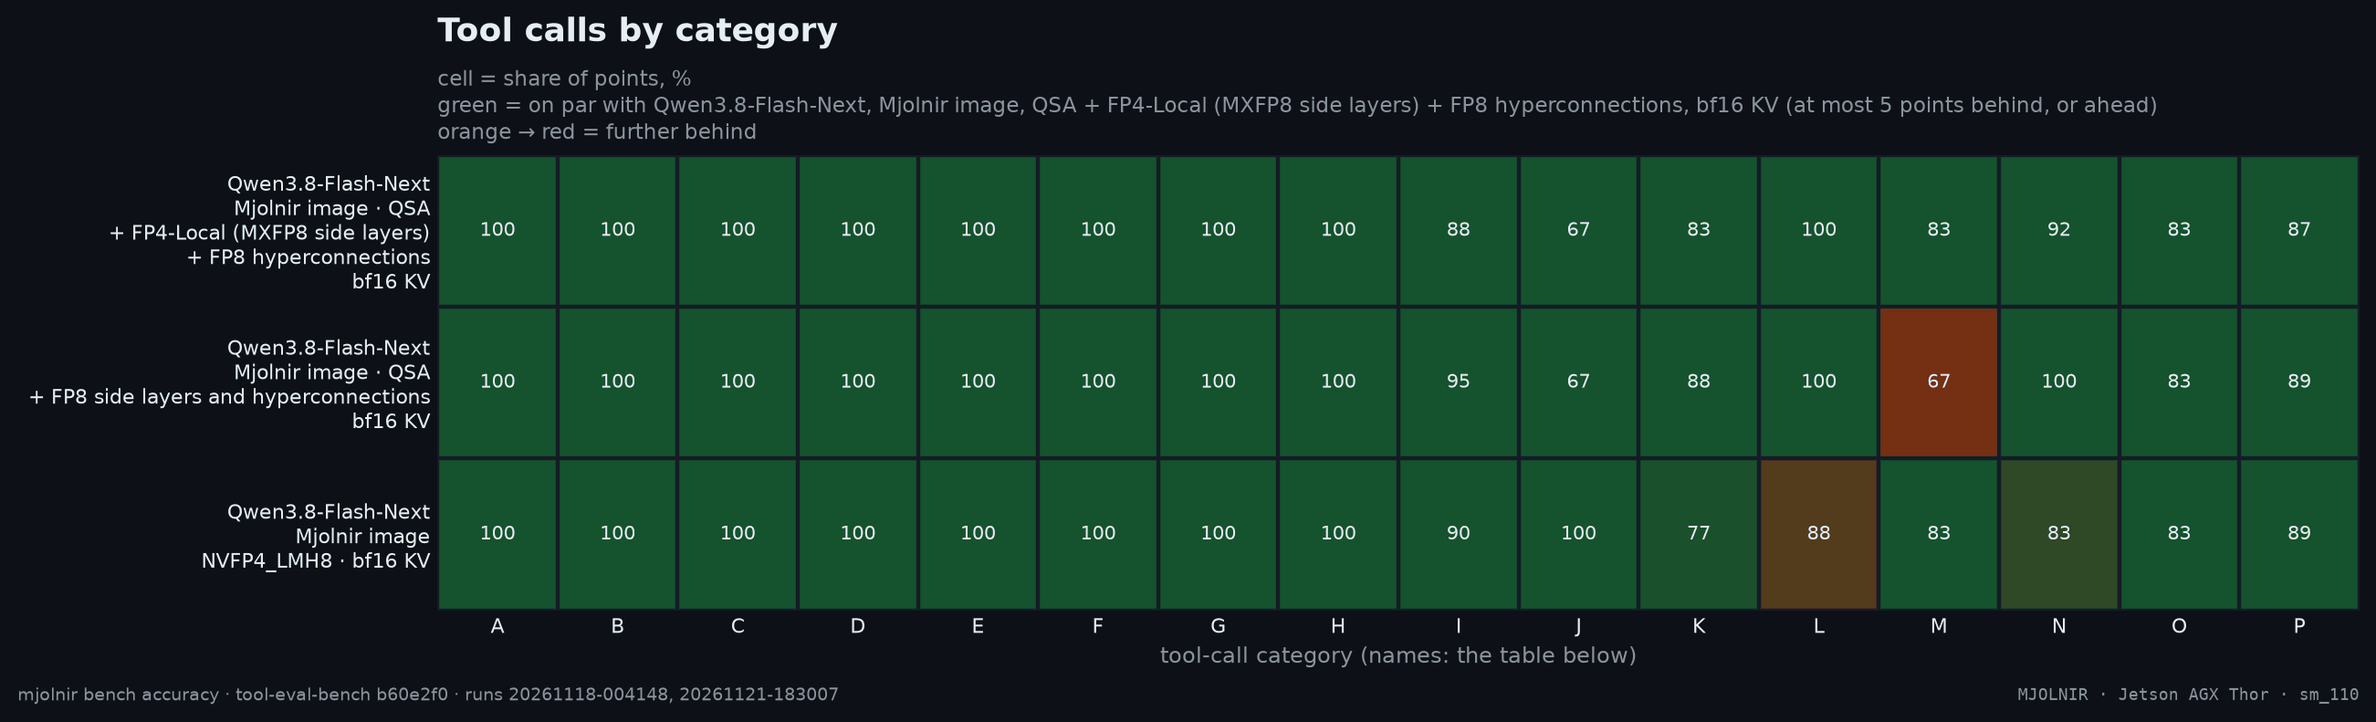
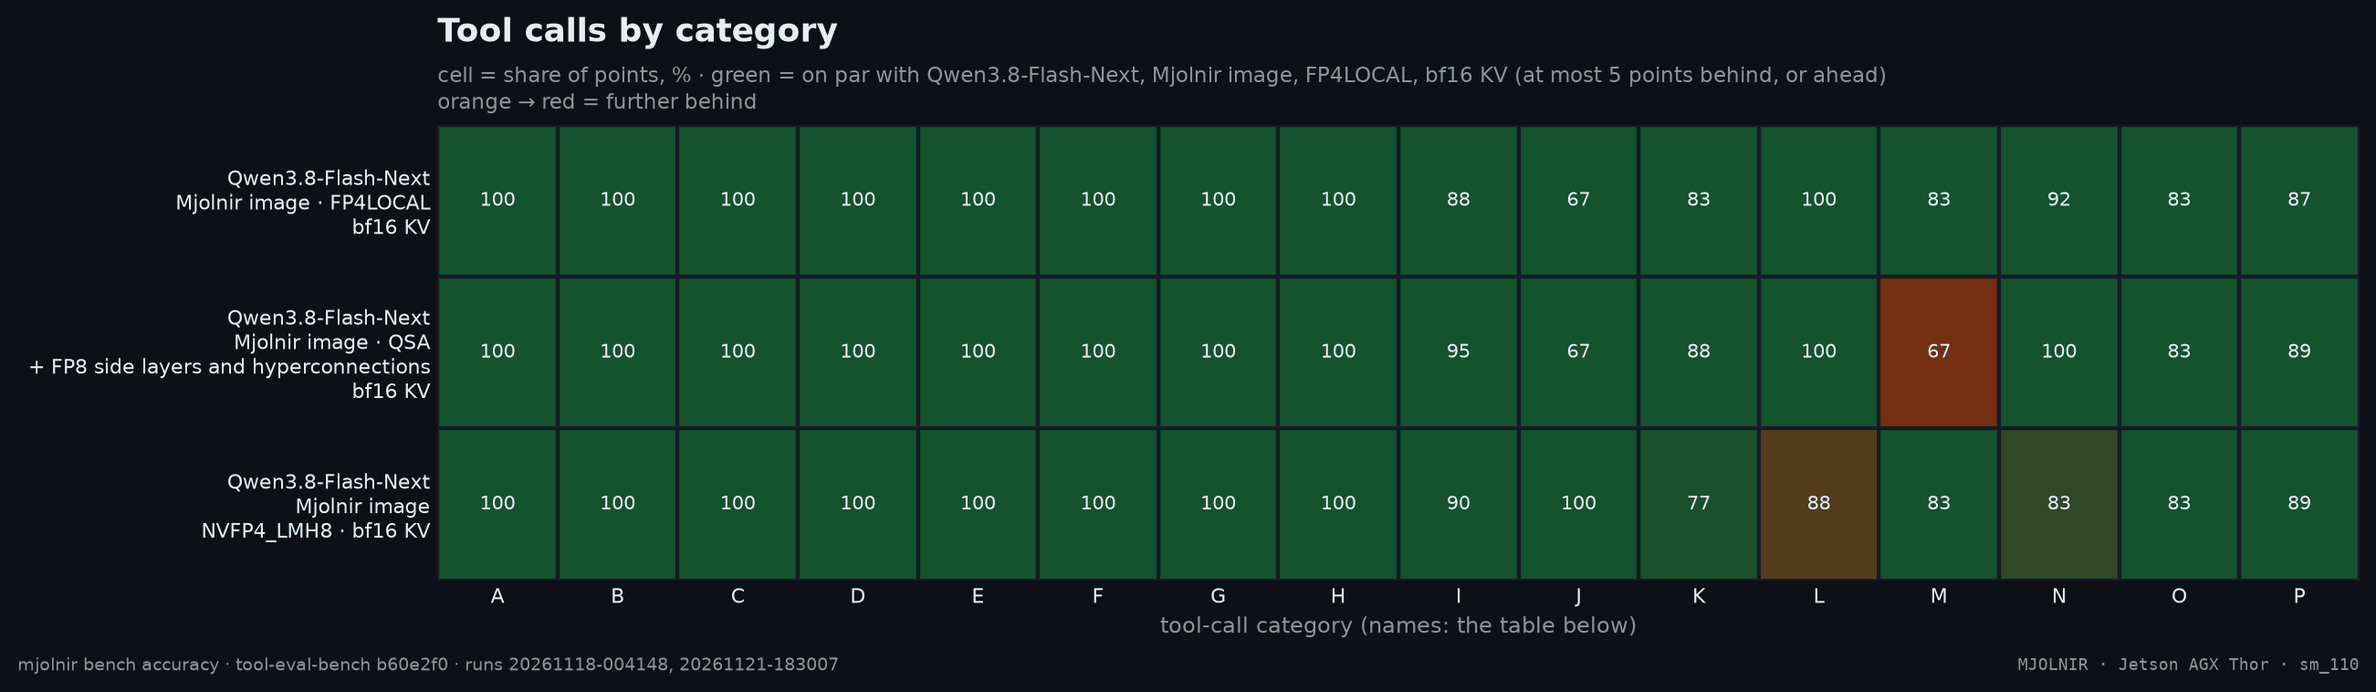
render: the post-cut single-arm era - the champion reads fp8 KV

diff --git a/docs/platforms/thor/kernel/accuracy.md b/docs/platforms/thor/kernel/accuracy.md
@@ -29,8 +29,8 @@ Sampling is greedy (temperature 0) with a fixed seed, so two configs see the sam
 - **Qwen3.6-35B-A3B · Mjolnir · fp6 e2m3 KV + fp8 lm_head + 64K draft vocab** vs Qwen3.6-35B-A3B · official vLLM · FlashInfer + DFlash · fp8 KV: Tool calls +0.7, Hard Mode -3.6 points (4 scenarios scored lower, 3 higher of 97).
 - **Qwen3.6-35B-A3B · Mjolnir · fp8 KV** vs Qwen3.6-35B-A3B · official vLLM · FlashInfer + DFlash · fp8 KV: Tool calls -1.1‡, Hard Mode -2.7 points (6 scenarios scored lower, 4 higher of 97; excluded TC-45 counted as zero).
 - **Qwen3.6-35B-A3B · Mjolnir · fp8 KV + W4A4 experts** vs Qwen3.6-35B-A3B · official vLLM · FlashInfer + DFlash · fp8 KV: Tool calls +0.4, Hard Mode +1.8 points (4 scenarios scored lower, 4 higher of 97).
-- **Qwen3.8-Flash-Next · Mjolnir image · QSA + FP8 side layers and hyperconnections · bf16 KV** vs Qwen3.8-Flash-Next · Mjolnir image · QSA + FP4-Local (MXFP8 side layers) + FP8 hyperconnections · bf16 KV: Tool calls +1.8, Hard Mode +2.7 points (4 scenarios scored lower, 10 higher of 97).
-- **Qwen3.8-Flash-Next · Mjolnir image · NVFP4_LMH8 · bf16 KV** vs Qwen3.8-Flash-Next · Mjolnir image · QSA + FP4-Local (MXFP8 side layers) + FP8 hyperconnections · bf16 KV: Tool calls -0.4, Hard Mode +2.7 points (6 scenarios scored lower, 9 higher of 97).
+- **Qwen3.8-Flash-Next · Mjolnir image · QSA + FP8 side layers and hyperconnections · bf16 KV** vs Qwen3.8-Flash-Next · Mjolnir image · FP4LOCAL · bf16 KV: Tool calls +1.8, Hard Mode +2.7 points (4 scenarios scored lower, 10 higher of 97).
+- **Qwen3.8-Flash-Next · Mjolnir image · NVFP4_LMH8 · bf16 KV** vs Qwen3.8-Flash-Next · Mjolnir image · FP4LOCAL · bf16 KV: Tool calls -0.4, Hard Mode +2.7 points (6 scenarios scored lower, 9 higher of 97).
 
 | config | KV | Tool calls % | Hard Mode % | completion |
 |---|---|--:|--:|--:|
@@ -43,7 +43,7 @@ Sampling is greedy (temperature 0) with a fixed seed, so two configs see the sam
 | Qwen3.6-35B-A3B · Mjolnir · fp6 e2m3 KV + fp8 lm_head + 64K draft vocab | fp6 e2m3 | 91.3 (+0.7) | 73.2 (-3.6) | 100% |
 | Qwen3.6-35B-A3B · Mjolnir · fp8 KV | fp8 | 90.2 <sub>n=2</sub> (-1.1‡) | 74.1 <sub>n=2</sub> (-2.7) | 99% |
 | Qwen3.6-35B-A3B · Mjolnir · fp8 KV + W4A4 experts | fp8 | 90.9 <sub>n=2</sub> (+0.4) | 78.6 <sub>n=2</sub> (+1.8) | 100% |
-| **Qwen3.8-Flash-Next · Mjolnir image · QSA + FP4-Local (MXFP8 side layers) + FP8 hyperconnections · bf16 KV** | bf16 | 90.9 <sub>n=2</sub> | 86.6 <sub>n=2</sub> | 100% |
+| **Qwen3.8-Flash-Next · Mjolnir image · FP4LOCAL · bf16 KV** | bf16 | 90.9 <sub>n=2</sub> | 86.6 <sub>n=2</sub> | 100% |
 | Qwen3.8-Flash-Next · Mjolnir image · QSA + FP8 side layers and hyperconnections · bf16 KV | bf16 | 92.8 (+1.8) | 89.3 (+2.7) | 100% |
 | Qwen3.8-Flash-Next · Mjolnir image · NVFP4_LMH8 · bf16 KV | bf16 | 90.6 (-0.4) | 89.3 (+2.7) | 100% |
 
@@ -56,13 +56,13 @@ Sampling is greedy (temperature 0) with a fixed seed, so two configs see the sam
 
 </details><br />
 
-<sub>Score in %, (±) = points vs the bold row of the same model (**Qwen3.8-27B · official vLLM · FlashInfer · fp8 KV / Qwen3.6-35B-A3B · official vLLM · FlashInfer + DFlash · fp8 KV / Qwen3.8-Flash-Next · Mjolnir image · QSA + FP4-Local (MXFP8 side layers) + FP8 hyperconnections · bf16 KV**), never across models; ‡ = tool-eval-bench excluded a scenario on one of the two legs; the delta scores both on the full max, the excluded points counting as zero; n = averaged runs (`--trials`). Each row takes every suite from the newest run that measured it. tool-eval-bench arguments: Tool calls: `run --hardmode --seed 42 --timeout 600`; Hard Mode: `run --hardmode --seed 42 --timeout 600`. Rendered from [`benchmarks/raw/accuracy/20261013-112727/accuracy.json`](../../../../benchmarks/raw/accuracy/20261013-112727/accuracy.json), [`benchmarks/raw/accuracy/20261017-131320/accuracy.json`](../../../../benchmarks/raw/accuracy/20261017-131320/accuracy.json), [`benchmarks/raw/accuracy/20261017-180105/accuracy.json`](../../../../benchmarks/raw/accuracy/20261017-180105/accuracy.json), [`benchmarks/raw/accuracy/20261017-210613/accuracy.json`](../../../../benchmarks/raw/accuracy/20261017-210613/accuracy.json), [`benchmarks/raw/accuracy/20261116-205937/accuracy.json`](../../../../benchmarks/raw/accuracy/20261116-205937/accuracy.json), [`benchmarks/raw/accuracy/20261118-004148/accuracy.json`](../../../../benchmarks/raw/accuracy/20261118-004148/accuracy.json), [`benchmarks/raw/accuracy/20261121-183007/accuracy.json`](../../../../benchmarks/raw/accuracy/20261121-183007/accuracy.json).</sub>
+<sub>Score in %, (±) = points vs the bold row of the same model (**Qwen3.8-27B · official vLLM · FlashInfer · fp8 KV / Qwen3.6-35B-A3B · official vLLM · FlashInfer + DFlash · fp8 KV / Qwen3.8-Flash-Next · Mjolnir image · FP4LOCAL · bf16 KV**), never across models; ‡ = tool-eval-bench excluded a scenario on one of the two legs; the delta scores both on the full max, the excluded points counting as zero; n = averaged runs (`--trials`). Each row takes every suite from the newest run that measured it. tool-eval-bench arguments: Tool calls: `run --hardmode --seed 42 --timeout 600`; Hard Mode: `run --hardmode --seed 42 --timeout 600`. Rendered from [`benchmarks/raw/accuracy/20261013-112727/accuracy.json`](../../../../benchmarks/raw/accuracy/20261013-112727/accuracy.json), [`benchmarks/raw/accuracy/20261017-131320/accuracy.json`](../../../../benchmarks/raw/accuracy/20261017-131320/accuracy.json), [`benchmarks/raw/accuracy/20261017-180105/accuracy.json`](../../../../benchmarks/raw/accuracy/20261017-180105/accuracy.json), [`benchmarks/raw/accuracy/20261017-210613/accuracy.json`](../../../../benchmarks/raw/accuracy/20261017-210613/accuracy.json), [`benchmarks/raw/accuracy/20261116-205937/accuracy.json`](../../../../benchmarks/raw/accuracy/20261116-205937/accuracy.json), [`benchmarks/raw/accuracy/20261118-004148/accuracy.json`](../../../../benchmarks/raw/accuracy/20261118-004148/accuracy.json), [`benchmarks/raw/accuracy/20261121-183007/accuracy.json`](../../../../benchmarks/raw/accuracy/20261121-183007/accuracy.json).</sub>
 
 ### By tool-call category
 
 <img src="../../../../assets/benchmarks/thor/Qwen3.8-27B/accuracy-categories.png" alt="Tool-call categories per serving config" width="100%">
 
-| category | Qwen3.8-27B · official vLLM · FlashInfer · fp8 KV | Qwen3.8-27B · Mjolnir · fp8 KV | Qwen3.8-27B · Mjolnir · fp6 e2m3 KV | Qwen3.8-27B · Mjolnir · fp6 e2m3 KV + fp8 lm_head + 64K draft vocab | Qwen3.6-35B-A3B · official vLLM · FlashInfer + DFlash · fp8 KV | Qwen3.6-35B-A3B · Mjolnir · fp6 e2m3 KV | Qwen3.6-35B-A3B · Mjolnir · fp6 e2m3 KV + fp8 lm_head + 64K draft vocab | Qwen3.6-35B-A3B · Mjolnir · fp8 KV ‡ | Qwen3.6-35B-A3B · Mjolnir · fp8 KV + W4A4 experts | Qwen3.8-Flash-Next · Mjolnir image · QSA + FP4-Local (MXFP8 side layers) + FP8 hyperconnections · bf16 KV | Qwen3.8-Flash-Next · Mjolnir image · QSA + FP8 side layers and hyperconnections · bf16 KV | Qwen3.8-Flash-Next · Mjolnir image · NVFP4_LMH8 · bf16 KV |
+| category | Qwen3.8-27B · official vLLM · FlashInfer · fp8 KV | Qwen3.8-27B · Mjolnir · fp8 KV | Qwen3.8-27B · Mjolnir · fp6 e2m3 KV | Qwen3.8-27B · Mjolnir · fp6 e2m3 KV + fp8 lm_head + 64K draft vocab | Qwen3.6-35B-A3B · official vLLM · FlashInfer + DFlash · fp8 KV | Qwen3.6-35B-A3B · Mjolnir · fp6 e2m3 KV | Qwen3.6-35B-A3B · Mjolnir · fp6 e2m3 KV + fp8 lm_head + 64K draft vocab | Qwen3.6-35B-A3B · Mjolnir · fp8 KV ‡ | Qwen3.6-35B-A3B · Mjolnir · fp8 KV + W4A4 experts | Qwen3.8-Flash-Next · Mjolnir image · FP4LOCAL · bf16 KV | Qwen3.8-Flash-Next · Mjolnir image · QSA + FP8 side layers and hyperconnections · bf16 KV | Qwen3.8-Flash-Next · Mjolnir image · NVFP4_LMH8 · bf16 KV |
 |---|--:|--:|--:|--:|--:|--:|--:|--:|--:|--:|--:|--:|
 | A · Tool Selection | 100 | 100 | 100 | 100 | 100 | 100 | 100 | 100 | 100 | 100 | 100 | 100 |
 | B · Parameter Precision | 100 | 100 | 100 | 100 | 100 | 100 | 100 | 100 | 100 | 100 | 100 | 100 |

diff --git a/docs/platforms/orin/kernel/accuracy.md b/docs/platforms/orin/kernel/accuracy.md
@@ -29,8 +29,8 @@ Sampling is greedy (temperature 0) with a fixed seed, so two configs see the sam
 - **Qwen3.6-35B-A3B · Mjolnir · fp6 e2m3 KV + fp8 lm_head + 64K draft vocab** vs Qwen3.6-35B-A3B · official vLLM · FlashInfer + DFlash · fp8 KV: Tool calls +0.7, Hard Mode -3.6 points (4 scenarios scored lower, 3 higher of 97).
 - **Qwen3.6-35B-A3B · Mjolnir · fp8 KV** vs Qwen3.6-35B-A3B · official vLLM · FlashInfer + DFlash · fp8 KV: Tool calls -1.1‡, Hard Mode -2.7 points (6 scenarios scored lower, 4 higher of 97; excluded TC-45 counted as zero).
 - **Qwen3.6-35B-A3B · Mjolnir · fp8 KV + W4A4 experts** vs Qwen3.6-35B-A3B · official vLLM · FlashInfer + DFlash · fp8 KV: Tool calls +0.4, Hard Mode +1.8 points (4 scenarios scored lower, 4 higher of 97).
-- **Qwen3.8-Flash-Next · Mjolnir image · QSA + FP8 side layers and hyperconnections · bf16 KV** vs Qwen3.8-Flash-Next · Mjolnir image · QSA + FP4-Local (MXFP8 side layers) + FP8 hyperconnections · bf16 KV: Tool calls +1.8, Hard Mode +2.7 points (4 scenarios scored lower, 10 higher of 97).
-- **Qwen3.8-Flash-Next · Mjolnir image · NVFP4_LMH8 · bf16 KV** vs Qwen3.8-Flash-Next · Mjolnir image · QSA + FP4-Local (MXFP8 side layers) + FP8 hyperconnections · bf16 KV: Tool calls -0.4, Hard Mode +2.7 points (6 scenarios scored lower, 9 higher of 97).
+- **Qwen3.8-Flash-Next · Mjolnir image · QSA + FP8 side layers and hyperconnections · bf16 KV** vs Qwen3.8-Flash-Next · Mjolnir image · FP4LOCAL · bf16 KV: Tool calls +1.8, Hard Mode +2.7 points (4 scenarios scored lower, 10 higher of 97).
+- **Qwen3.8-Flash-Next · Mjolnir image · NVFP4_LMH8 · bf16 KV** vs Qwen3.8-Flash-Next · Mjolnir image · FP4LOCAL · bf16 KV: Tool calls -0.4, Hard Mode +2.7 points (6 scenarios scored lower, 9 higher of 97).
 
 | config | KV | Tool calls % | Hard Mode % | completion |
 |---|---|--:|--:|--:|
@@ -43,7 +43,7 @@ Sampling is greedy (temperature 0) with a fixed seed, so two configs see the sam
 | Qwen3.6-35B-A3B · Mjolnir · fp6 e2m3 KV + fp8 lm_head + 64K draft vocab | fp6 e2m3 | 91.3 (+0.7) | 73.2 (-3.6) | 100% |
 | Qwen3.6-35B-A3B · Mjolnir · fp8 KV | fp8 | 90.2 <sub>n=2</sub> (-1.1‡) | 74.1 <sub>n=2</sub> (-2.7) | 99% |
 | Qwen3.6-35B-A3B · Mjolnir · fp8 KV + W4A4 experts | fp8 | 90.9 <sub>n=2</sub> (+0.4) | 78.6 <sub>n=2</sub> (+1.8) | 100% |
-| **Qwen3.8-Flash-Next · Mjolnir image · QSA + FP4-Local (MXFP8 side layers) + FP8 hyperconnections · bf16 KV** | bf16 | 90.9 <sub>n=2</sub> | 86.6 <sub>n=2</sub> | 100% |
+| **Qwen3.8-Flash-Next · Mjolnir image · FP4LOCAL · bf16 KV** | bf16 | 90.9 <sub>n=2</sub> | 86.6 <sub>n=2</sub> | 100% |
 | Qwen3.8-Flash-Next · Mjolnir image · QSA + FP8 side layers and hyperconnections · bf16 KV | bf16 | 92.8 (+1.8) | 89.3 (+2.7) | 100% |
 | Qwen3.8-Flash-Next · Mjolnir image · NVFP4_LMH8 · bf16 KV | bf16 | 90.6 (-0.4) | 89.3 (+2.7) | 100% |
 
@@ -56,13 +56,13 @@ Sampling is greedy (temperature 0) with a fixed seed, so two configs see the sam
 
 </details><br />
 
-<sub>Score in %, (±) = points vs the bold row of the same model (**Qwen3.8-27B · official vLLM · FlashInfer · fp8 KV / Qwen3.6-35B-A3B · official vLLM · FlashInfer + DFlash · fp8 KV / Qwen3.8-Flash-Next · Mjolnir image · QSA + FP4-Local (MXFP8 side layers) + FP8 hyperconnections · bf16 KV**), never across models; ‡ = tool-eval-bench excluded a scenario on one of the two legs; the delta scores both on the full max, the excluded points counting as zero; n = averaged runs (`--trials`). Each row takes every suite from the newest run that measured it. tool-eval-bench arguments: Tool calls: `run --hardmode --seed 42 --timeout 600`; Hard Mode: `run --hardmode --seed 42 --timeout 600`. Rendered from [`benchmarks/raw/accuracy/20261013-112727/accuracy.json`](../../../../benchmarks/raw/accuracy/20261013-112727/accuracy.json), [`benchmarks/raw/accuracy/20261017-131320/accuracy.json`](../../../../benchmarks/raw/accuracy/20261017-131320/accuracy.json), [`benchmarks/raw/accuracy/20261017-180105/accuracy.json`](../../../../benchmarks/raw/accuracy/20261017-180105/accuracy.json), [`benchmarks/raw/accuracy/20261017-210613/accuracy.json`](../../../../benchmarks/raw/accuracy/20261017-210613/accuracy.json), [`benchmarks/raw/accuracy/20261116-205937/accuracy.json`](../../../../benchmarks/raw/accuracy/20261116-205937/accuracy.json), [`benchmarks/raw/accuracy/20261118-004148/accuracy.json`](../../../../benchmarks/raw/accuracy/20261118-004148/accuracy.json), [`benchmarks/raw/accuracy/20261121-183007/accuracy.json`](../../../../benchmarks/raw/accuracy/20261121-183007/accuracy.json).</sub>
+<sub>Score in %, (±) = points vs the bold row of the same model (**Qwen3.8-27B · official vLLM · FlashInfer · fp8 KV / Qwen3.6-35B-A3B · official vLLM · FlashInfer + DFlash · fp8 KV / Qwen3.8-Flash-Next · Mjolnir image · FP4LOCAL · bf16 KV**), never across models; ‡ = tool-eval-bench excluded a scenario on one of the two legs; the delta scores both on the full max, the excluded points counting as zero; n = averaged runs (`--trials`). Each row takes every suite from the newest run that measured it. tool-eval-bench arguments: Tool calls: `run --hardmode --seed 42 --timeout 600`; Hard Mode: `run --hardmode --seed 42 --timeout 600`. Rendered from [`benchmarks/raw/accuracy/20261013-112727/accuracy.json`](../../../../benchmarks/raw/accuracy/20261013-112727/accuracy.json), [`benchmarks/raw/accuracy/20261017-131320/accuracy.json`](../../../../benchmarks/raw/accuracy/20261017-131320/accuracy.json), [`benchmarks/raw/accuracy/20261017-180105/accuracy.json`](../../../../benchmarks/raw/accuracy/20261017-180105/accuracy.json), [`benchmarks/raw/accuracy/20261017-210613/accuracy.json`](../../../../benchmarks/raw/accuracy/20261017-210613/accuracy.json), [`benchmarks/raw/accuracy/20261116-205937/accuracy.json`](../../../../benchmarks/raw/accuracy/20261116-205937/accuracy.json), [`benchmarks/raw/accuracy/20261118-004148/accuracy.json`](../../../../benchmarks/raw/accuracy/20261118-004148/accuracy.json), [`benchmarks/raw/accuracy/20261121-183007/accuracy.json`](../../../../benchmarks/raw/accuracy/20261121-183007/accuracy.json).</sub>
 
 ### By tool-call category
 
 
 
-| category | Qwen3.8-27B · official vLLM · FlashInfer · fp8 KV | Qwen3.8-27B · Mjolnir · fp8 KV | Qwen3.8-27B · Mjolnir · fp6 e2m3 KV | Qwen3.8-27B · Mjolnir · fp6 e2m3 KV + fp8 lm_head + 64K draft vocab | Qwen3.6-35B-A3B · official vLLM · FlashInfer + DFlash · fp8 KV | Qwen3.6-35B-A3B · Mjolnir · fp6 e2m3 KV | Qwen3.6-35B-A3B · Mjolnir · fp6 e2m3 KV + fp8 lm_head + 64K draft vocab | Qwen3.6-35B-A3B · Mjolnir · fp8 KV ‡ | Qwen3.6-35B-A3B · Mjolnir · fp8 KV + W4A4 experts | Qwen3.8-Flash-Next · Mjolnir image · QSA + FP4-Local (MXFP8 side layers) + FP8 hyperconnections · bf16 KV | Qwen3.8-Flash-Next · Mjolnir image · QSA + FP8 side layers and hyperconnections · bf16 KV | Qwen3.8-Flash-Next · Mjolnir image · NVFP4_LMH8 · bf16 KV |
+| category | Qwen3.8-27B · official vLLM · FlashInfer · fp8 KV | Qwen3.8-27B · Mjolnir · fp8 KV | Qwen3.8-27B · Mjolnir · fp6 e2m3 KV | Qwen3.8-27B · Mjolnir · fp6 e2m3 KV + fp8 lm_head + 64K draft vocab | Qwen3.6-35B-A3B · official vLLM · FlashInfer + DFlash · fp8 KV | Qwen3.6-35B-A3B · Mjolnir · fp6 e2m3 KV | Qwen3.6-35B-A3B · Mjolnir · fp6 e2m3 KV + fp8 lm_head + 64K draft vocab | Qwen3.6-35B-A3B · Mjolnir · fp8 KV ‡ | Qwen3.6-35B-A3B · Mjolnir · fp8 KV + W4A4 experts | Qwen3.8-Flash-Next · Mjolnir image · FP4LOCAL · bf16 KV | Qwen3.8-Flash-Next · Mjolnir image · QSA + FP8 side layers and hyperconnections · bf16 KV | Qwen3.8-Flash-Next · Mjolnir image · NVFP4_LMH8 · bf16 KV |
 |---|--:|--:|--:|--:|--:|--:|--:|--:|--:|--:|--:|--:|
 | A · Tool Selection | 100 | 100 | 100 | 100 | 100 | 100 | 100 | 100 | 100 | 100 | 100 | 100 |
 | B · Parameter Precision | 100 | 100 | 100 | 100 | 100 | 100 | 100 | 100 | 100 | 100 | 100 | 100 |

diff --git a/configs/nvidia/Qwen3.8-Flash-Next/README.md b/configs/nvidia/Qwen3.8-Flash-Next/README.md
@@ -1,6 +1,6 @@
 # Qwen3.8-Flash-Next
 
-`nvidia/Qwen3.8-Flash-Next` — served as `nvidia/Qwen3.8-Flash-Next` — with 10
+`nvidia/Qwen3.8-Flash-Next` — served as `nvidia/Qwen3.8-Flash-Next` — with 1
 serving configs in `configs/nvidia/Qwen3.8-Flash-Next/`. Everything on this page is
 derived from the config tree and the raw results; there is no hand-written
 model prose (decision 7).
@@ -14,34 +14,16 @@ format) on each platform.
 
 | config | backend | thor | spark | orin |
 |---|---|---|---|---|
-| [`FP4LOCAL`](FP4LOCAL/README.md) | QSA + FP4-Local (MXFP8 side layers) + FP8 hyperconnections | ✅ | — | — |
-| [`FP4LOCAL_C6`](FP4LOCAL_C6/README.md) | QSA + FP4-Local (MXFP8 side layers) + FP8 hyperconnections, 6 sequences | ✅ | — | — |
-| [`NVFP4_FP6`](NVFP4_FP6/README.md) | NVFP4_FP6 | ✅ | — | — |
-| [`NVFP4_FP8KV`](NVFP4_FP8KV/README.md) | NVFP4_FP8KV | ❌ | — | — |
-| [`NVFP4_LMH8`](NVFP4_LMH8/README.md) | NVFP4_LMH8 | ✅ | — | — |
-| [`NVFP4_MJOLNIR_QSA`](NVFP4_MJOLNIR_QSA/README.md) | NVFP4_MJOLNIR_QSA | ❌ | — | — |
-| [`NVFP4_MTP6_FP6`](NVFP4_MTP6_FP6/README.md) | NVFP4_MTP6_FP6 | ✅ | — | — |
-| [`NVFP4_SFP8`](NVFP4_SFP8/README.md) | QSA + FP8 side layers and hyperconnections | ✅ | — | — |
-| [`NVFP4_SFP8_C6`](NVFP4_SFP8_C6/README.md) | QSA + FP8 side layers and hyperconnections, 6 sequences | ✅ | — | — |
-| [`NVFP4_VT64K`](NVFP4_VT64K/README.md) | NVFP4_VT64K | ✅ | — | — |
+| [`NVFP4_SFP8`](NVFP4_SFP8/README.md) | QSA + FP8 side layers and hyperconnections | ❌ | — | — |
 
 
-- `FP4LOCAL` on thor: ✅ BF16 (and fp16) KV is the unquantized baseline: every backend class serves it wherever that backend itself runs.
-- `FP4LOCAL_C6` on thor: ✅ BF16 (and fp16) KV is the unquantized baseline: every backend class serves it wherever that backend itself runs.
-- `NVFP4_FP6` on thor: ✅ The Mjolnir kernel is the only fp6 reader, with per-(layer, KV-head, channel) calibrated scales.
-- `NVFP4_FP8KV` on thor: ❌ kv-cache-dtype 'fp8_e4m3' is not in the availability table — known dtypes: bf16, fp6_e2m3, fp8, int4, int8, nvfp4.
-- `NVFP4_LMH8` on thor: ✅ BF16 (and fp16) KV is the unquantized baseline: every backend class serves it wherever that backend itself runs.
-- `NVFP4_MJOLNIR_QSA` on thor: ❌ kv-cache-dtype 'fp8_e4m3' is not in the availability table — known dtypes: bf16, fp6_e2m3, fp8, int4, int8, nvfp4.
-- `NVFP4_MTP6_FP6` on thor: ✅ The Mjolnir kernel is the only fp6 reader, with per-(layer, KV-head, channel) calibrated scales.
-- `NVFP4_SFP8` on thor: ✅ BF16 (and fp16) KV is the unquantized baseline: every backend class serves it wherever that backend itself runs.
-- `NVFP4_SFP8_C6` on thor: ✅ BF16 (and fp16) KV is the unquantized baseline: every backend class serves it wherever that backend itself runs.
-- `NVFP4_VT64K` on thor: ✅ BF16 (and fp16) KV is the unquantized baseline: every backend class serves it wherever that backend itself runs.
+- `NVFP4_SFP8` on thor: ❌ kv-cache-dtype 'fp8_e4m3' is not in the availability table — known dtypes: bf16, fp6_e2m3, fp8, int4, int8, nvfp4.
 
 
 ## Quickstart
 
 ```bash
-mjolnir serve up --config FP4LOCAL
+mjolnir serve up --config NVFP4_SFP8
 ```
 
 Any config the platform's overlays allow; the full list is the table above.

diff --git a/docs/platforms/thor/README.md b/docs/platforms/thor/README.md
@@ -35,7 +35,7 @@ speeds. Per-config availability lives on each [model page](../../../configs/).
   <tbody>
     <tr><td align="left"><a href="../../../configs/Qwen/Qwen3.8-27B/README.md"><code>Qwen/Qwen3.8-27B</code></a></td><td align="center"><a href="../../../configs/Qwen/Qwen3.8-27B/NVFP4_MJOLNIR_E2M3_LMH8_VT64K/README.md"><code>NVFP4_MJOLNIR_E2M3_LMH8_VT64K</code></a></td><td align="center"><span title="NVFP4_MJOLNIR_E2M3_LMH8_VT64K">✅ 40.7 t/s</span></td><td align="center"><span title="NVFP4_MJOLNIR_E2M3_LMH8_VT64K">4325.4 t/s</span></td></tr>
     <tr><td align="left"><a href="../../../configs/nvidia/Qwen3.6-35B-A3B/README.md"><code>nvidia/Qwen3.6-35B-A3B</code></a></td><td align="center"><a href="../../../configs/nvidia/Qwen3.6-35B-A3B/NVFP4_MJOLNIR_E2M3_LMH8_VT64K/README.md"><code>NVFP4_MJOLNIR_E2M3_LMH8_VT64K</code></a></td><td align="center"><span title="NVFP4_MJOLNIR_E2M3">✅ 126.2 t/s</span></td><td align="center"><span title="NVFP4_MJOLNIR_E2M3">7575.5 t/s</span></td></tr>
-    <tr><td align="left"><a href="../../../configs/nvidia/Qwen3.8-Flash-Next/README.md"><code>nvidia/Qwen3.8-Flash-Next</code></a></td><td align="center"><a href="../../../configs/nvidia/Qwen3.8-Flash-Next/FP4LOCAL/README.md"><code>FP4LOCAL</code></a></td><td align="center"><span title="NVFP4_MJOLNIR_QSA">✅ 44.1 t/s</span></td><td align="center"><span title="NVFP4_MJOLNIR_QSA">2992.6 t/s</span></td></tr>
+    <tr><td align="left"><a href="../../../configs/nvidia/Qwen3.8-Flash-Next/README.md"><code>nvidia/Qwen3.8-Flash-Next</code></a></td><td align="center"><a href="../../../configs/nvidia/Qwen3.8-Flash-Next/NVFP4_SFP8/README.md"><code>NVFP4_SFP8</code></a></td><td align="center"><span title="NVFP4_SFP8">❌ 40.5 t/s</span></td><td align="center"><span title="NVFP4_SFP8">2991.0 t/s</span></td></tr>
   </tbody>
 </table>
 

diff --git a/README.md b/README.md
@@ -182,7 +182,7 @@ kernel results exist for its headline model — its own kernel case study.
   <tbody>
     <tr><td align="left"><a href="configs/Qwen/Qwen3.8-27B/README.md">Qwen3.8-27B</a></td><td align="center"><span title="NVFP4_MJOLNIR_E2M3_LMH8_VT64K">✅ 40.7 t/s</span></td><td align="center">✅</td><td align="center"><span title="AWQ_MJOLNIR_VT64K">✅ 24.3 t/s</span></td></tr>
     <tr><td align="left"><a href="configs/nvidia/Qwen3.6-35B-A3B/README.md">Qwen3.6-35B-A3B</a></td><td align="center"><span title="NVFP4_MJOLNIR_E2M3">✅ 126.2 t/s</span></td><td align="center">—</td><td align="center">—</td></tr>
-    <tr><td align="left"><a href="configs/nvidia/Qwen3.8-Flash-Next/README.md">Qwen3.8-Flash-Next</a></td><td align="center"><span title="NVFP4_MJOLNIR_QSA">✅ 44.1 t/s</span></td><td align="center">—</td><td align="center">—</td></tr>
+    <tr><td align="left"><a href="configs/nvidia/Qwen3.8-Flash-Next/README.md">Qwen3.8-Flash-Next</a></td><td align="center"><span title="NVFP4_SFP8">❌ 40.5 t/s</span></td><td align="center">—</td><td align="center">—</td></tr>
   </tbody>
 </table>
 

diff --git a/configs/nvidia/Qwen3.8-Flash-Next/NVFP4_SFP8/README.md b/configs/nvidia/Qwen3.8-Flash-Next/NVFP4_SFP8/README.md
@@ -13,7 +13,7 @@ this page derives from the committed raw data ([history](../../../../benchmarks/
 | Max context | 256K |
 | Max concurrency | 1 |
 | Prefill chunk | 8K |
-| KV cache | auto |
+| KV cache | fp8_e4m3 |
 | Spec decode | MTP ×3 |
 | GPU memory util | 0.78 |
 | Parsing | qwen3_xml / qwen3 |
@@ -24,7 +24,7 @@ this page derives from the committed raw data ([history](../../../../benchmarks/
 ```bash
 mjolnir serve up --config NVFP4_SFP8
 ```
-Availability: ✅ BF16 (and fp16) KV is the unquantized baseline: every backend class serves it wherever that backend itself runs.
+Availability: ❌ kv-cache-dtype 'fp8_e4m3' is not in the availability table — known dtypes: bf16, fp6_e2m3, fp8, int4, int8, nvfp4.
 
 Explore the numbers in [the interactive charts](https://GoBrrr-ai.github.io/mjolnir/#config=NVFP4_SFP8).
 
